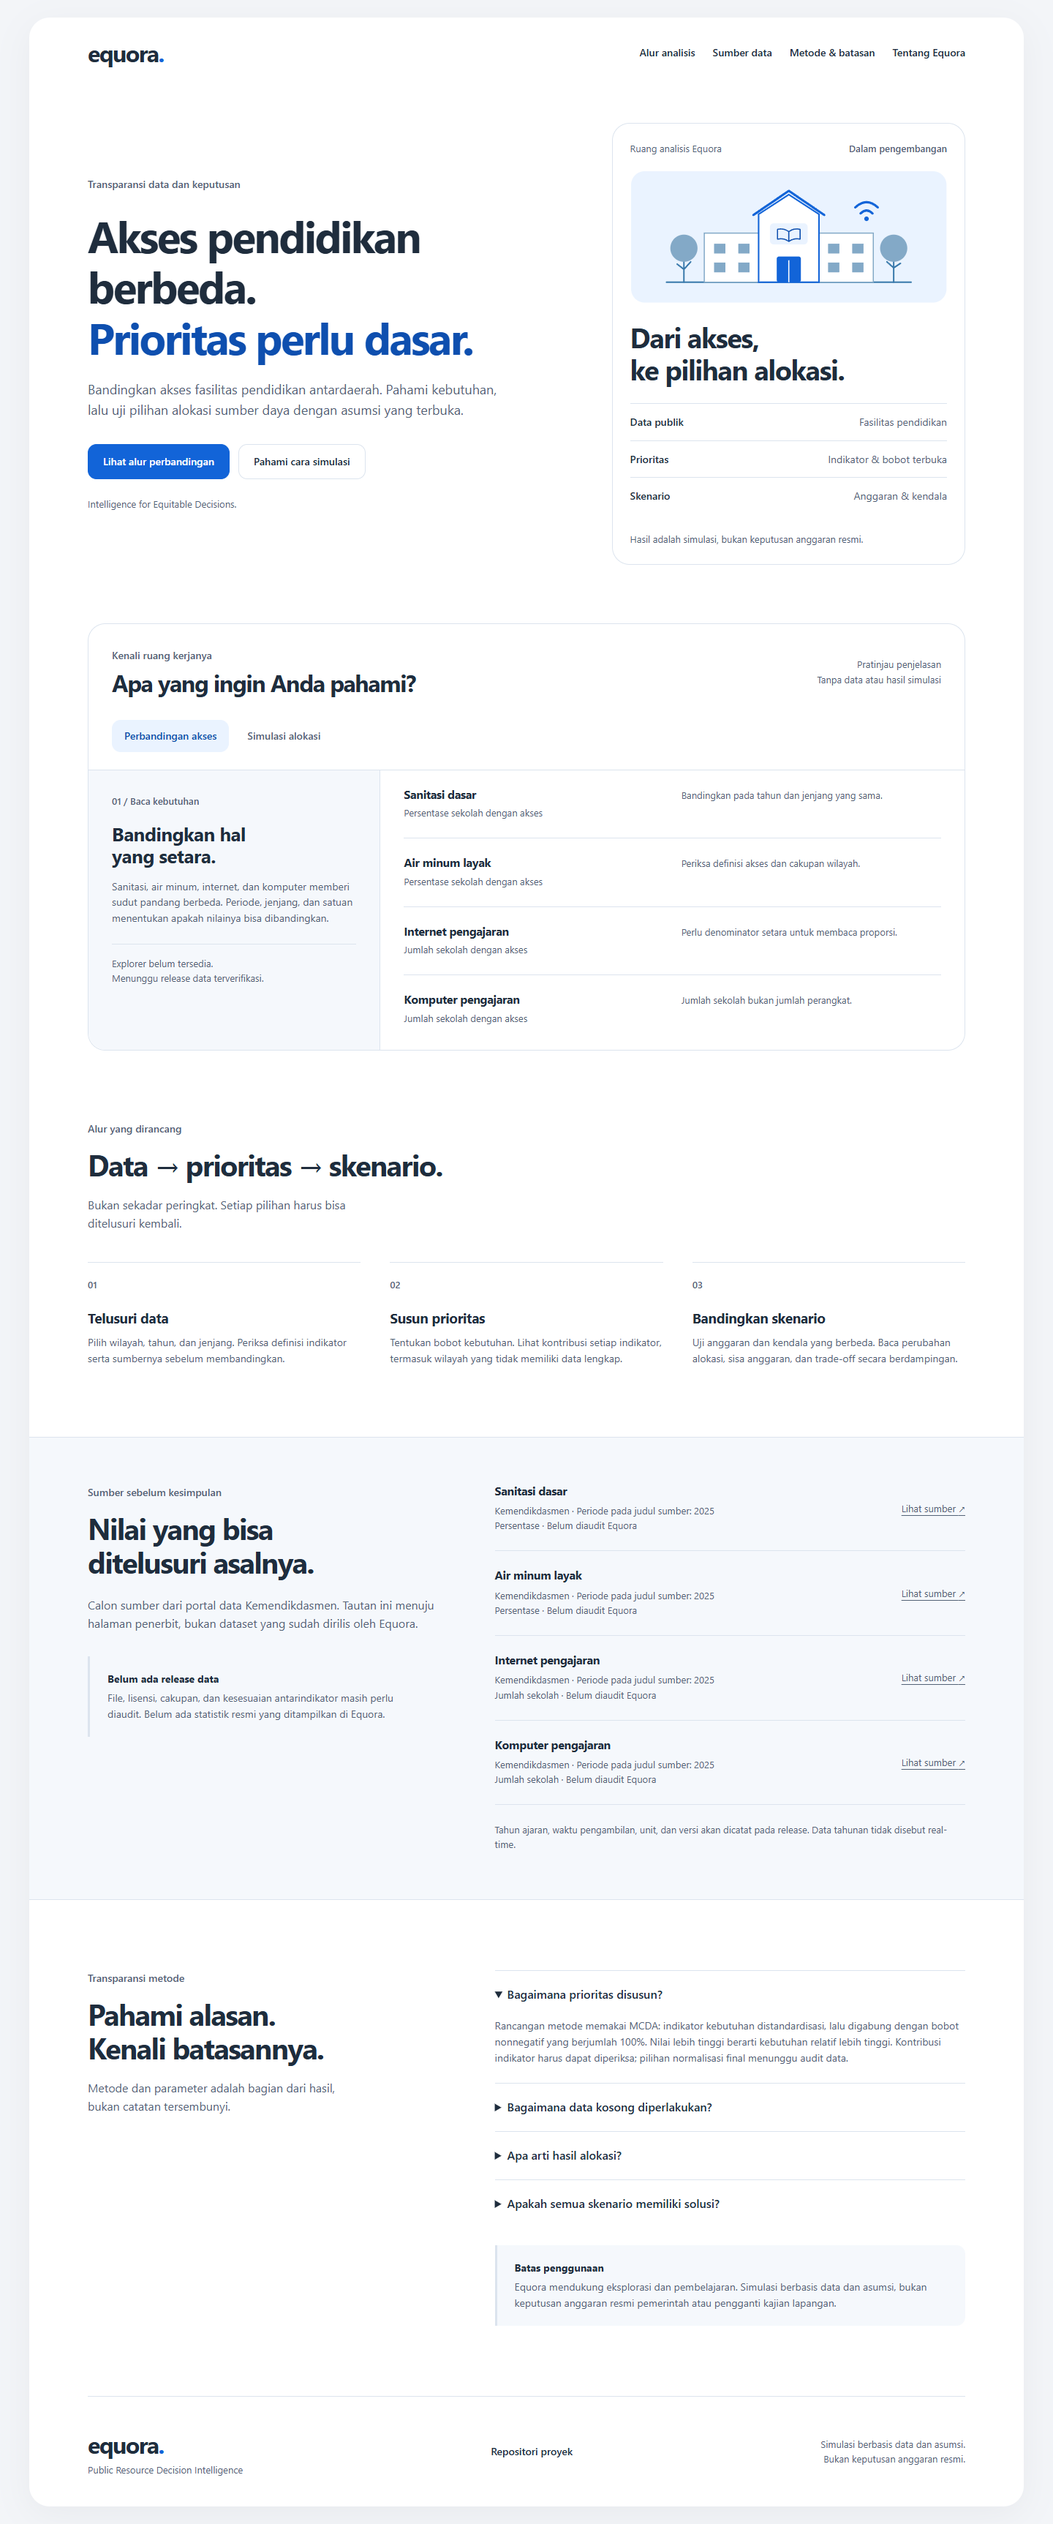
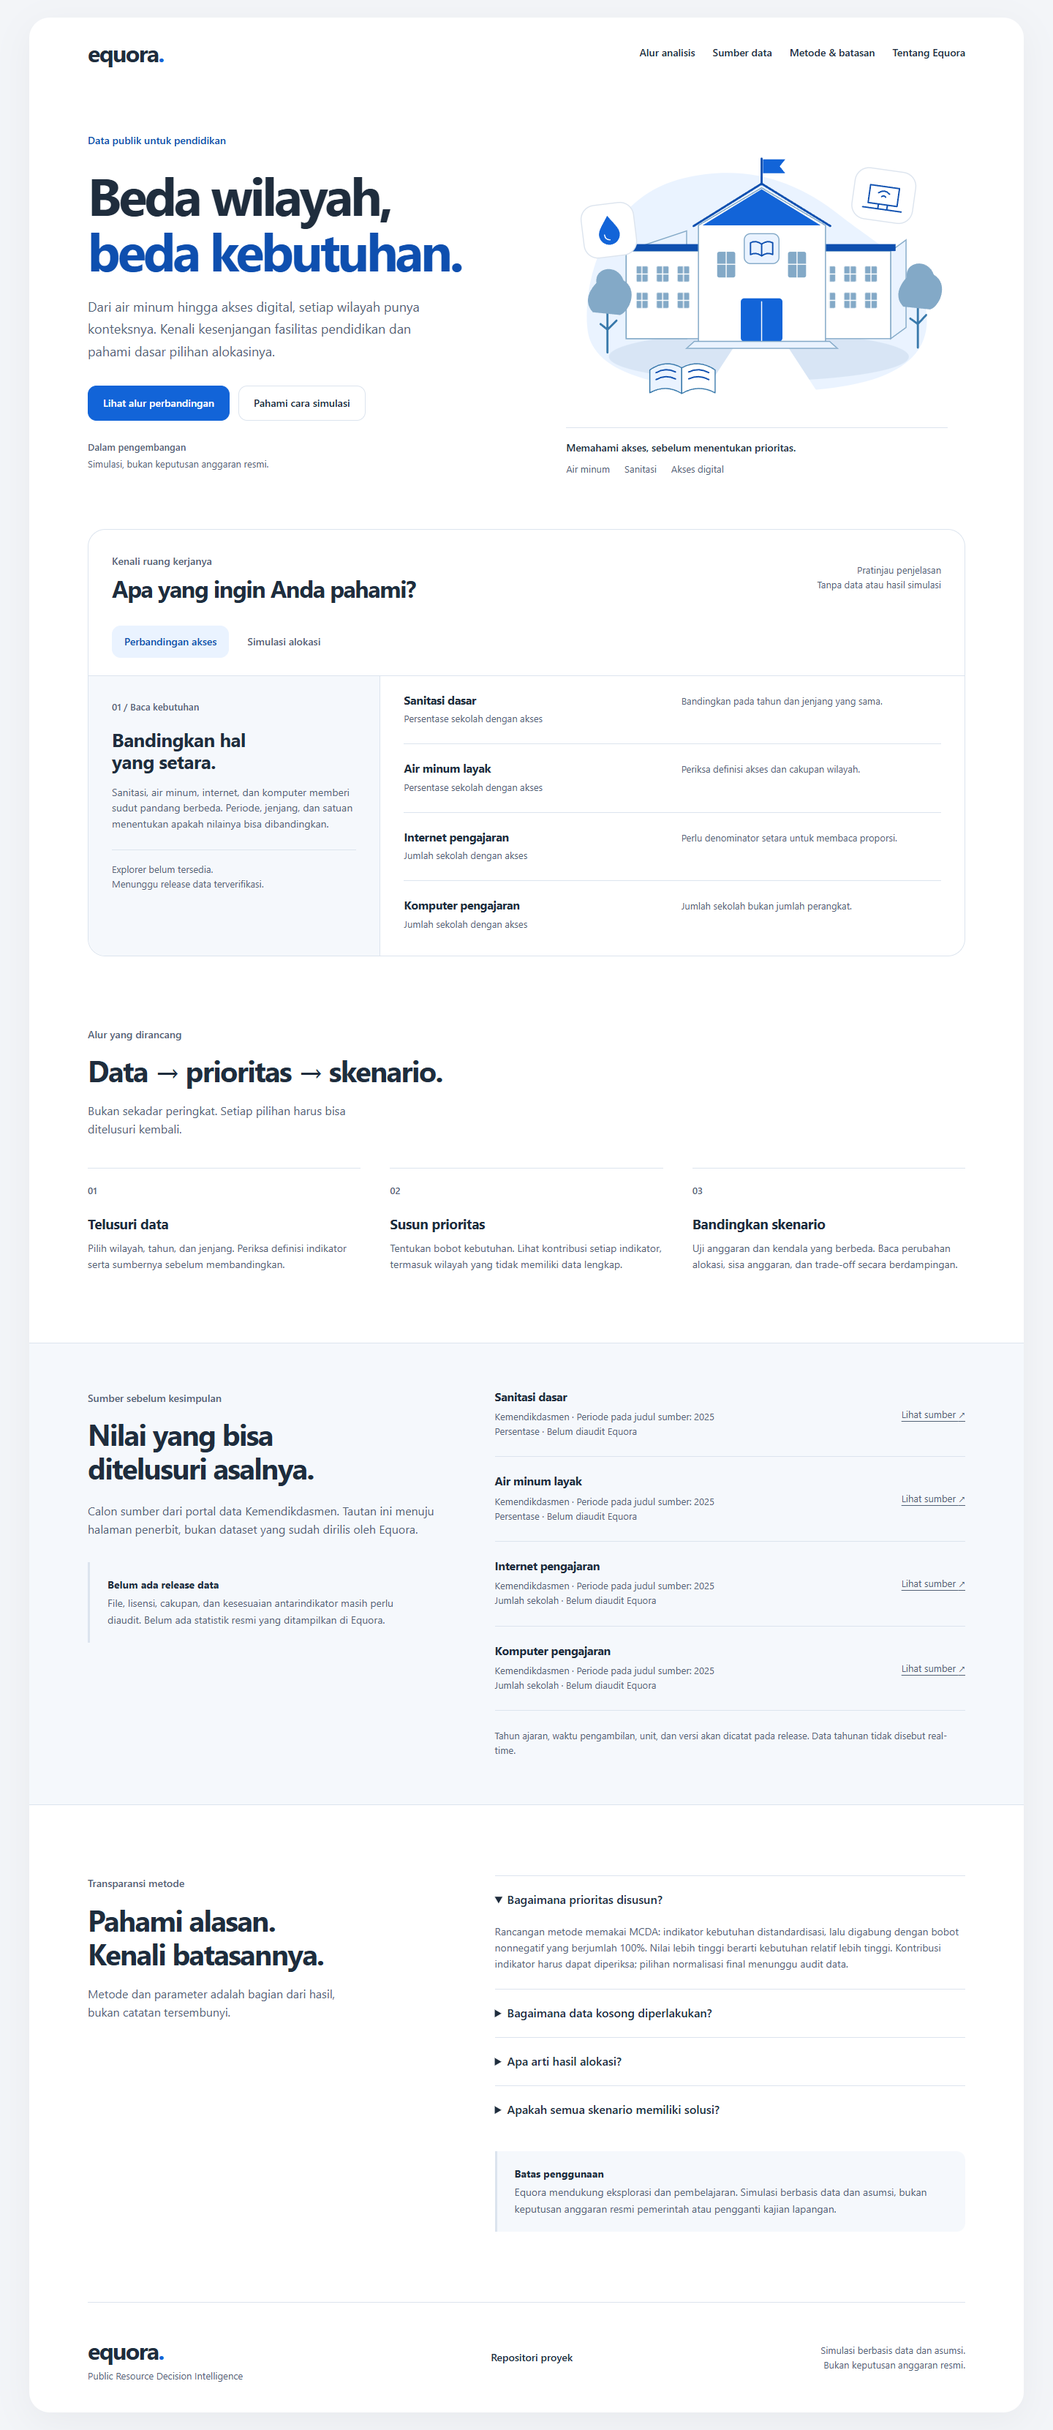
feat(web): strengthen education hero composition and illustration

diff --git a/frontend/src/lib/components/EducationScene.svelte b/frontend/src/lib/components/EducationScene.svelte
@@ -1,31 +1,65 @@
-<svg viewBox="0 0 420 176" role="img" aria-label="Ilustrasi sekolah sebagai konteks fasilitas pendidikan">
-  <rect x="1" y="1" width="418" height="174" rx="18" class="backdrop" />
-  <path d="M48 148H372" class="ground" />
-  <path d="M98 83H174V148H98zM246 83H322V148H246z" class="wing" />
-  <path d="M170 58L210 32L250 58V148H170z" class="school" />
-  <path d="M163 59L210 27L257 59" class="roof" />
-  <rect x="194" y="114" width="32" height="34" rx="3" class="door" />
-  <path d="M210 119V148" class="door-line" />
-  <path d="M111 97H126V110H111zM143 97H158V110H143zM262 97H277V110H262zM294 97H309V110H294zM111 122H126V135H111zM143 122H158V135H143zM262 122H277V135H262zM294 122H309V135H294z" class="windows" />
-  <rect x="185" y="70" width="50" height="28" rx="5" class="sign" />
-  <path d="M195 78Q203 76 210 81Q217 76 225 78V91Q217 89 210 94Q203 89 195 91zM210 81V94" class="book" />
-  <path d="M71 148V110M62 124L71 131L80 121M349 148V110M340 121L349 129L358 123" class="tree" />
-  <circle cx="71" cy="103" r="18" class="leaves" />
-  <circle cx="349" cy="103" r="18" class="leaves" />
-  <path d="M298 49Q313 35 328 49M305 57Q313 49 321 57" class="signal" />
-  <circle cx="313" cy="64" r="3" class="signal-dot" />
+<svg viewBox="0 0 600 430" role="img" aria-label="Ilustrasi lingkungan sekolah dengan fasilitas air dan akses digital, bukan data sekolah nyata">
+  <defs>
+    <pattern id="eq-school-windows" width="30" height="38" patternUnits="userSpaceOnUse">
+      <rect x="6" y="8" width="17" height="22" rx="2" class="window" />
+      <path d="M14.5 8V30M6 19H23" class="window-line" />
+    </pattern>
+  </defs>
+  <path d="M56 286C50 195 96 94 195 71C285 50 357 75 419 124C481 173 546 201 545 277C544 352 452 378 319 378C179 378 61 359 56 286Z" class="backdrop" />
+  <ellipse cx="303" cy="328" rx="216" ry="35" class="lawn" />
+  <path d="M275 302L224 380H388L337 302Z" class="pathway" />
+  <path d="M112 176L199 147V302H112Z" class="wing-side" />
+  <path d="M112 176H218V302H112Z" class="wing" />
+  <path d="M389 176H493V302H389Z" class="wing" />
+  <path d="M493 176L515 160V286L493 302Z" class="wing-side" />
+  <path d="M105 176H220V166H105ZM388 166H500V176H388Z" class="ledge" />
+  <rect x="127" y="188" width="76" height="83" fill="url(#eq-school-windows)" />
+  <rect x="404" y="188" width="76" height="83" fill="url(#eq-school-windows)" />
+  <path d="M216 139L307 85L399 139V306H216Z" class="school" />
+  <path d="M209 140L307 79L406 140" class="roof-outline" />
+  <path d="M222 139L307 87L392 139Z" class="roof" />
+  <rect x="277" y="244" width="60" height="62" rx="5" class="door" />
+  <path d="M307 249V306" class="door-line" />
+  <path d="M210 306H405L416 316H199Z" class="steps" />
+  <rect x="243" y="177" width="26" height="37" rx="3" class="window" />
+  <rect x="345" y="177" width="26" height="37" rx="3" class="window" />
+  <path d="M256 177V214M243 195H269M358 177V214M345 195H371" class="window-line" />
+  <rect x="282" y="151" width="50" height="43" rx="9" class="book-sign" />
+  <path d="M291 164Q299 160 307 166Q315 160 323 164V181Q315 177 307 183Q299 177 291 181ZM307 166V183" class="book" />
+  <path d="M307 80V43" class="pole" />
+  <path d="M309 44H341L333 54L341 64H309Z" class="flag" />
+  <path d="M85 322V264M75 281L85 289L98 276M532 315V256M521 273L532 281L544 268" class="tree" />
+  <path d="M64 264C48 247 63 228 69 222C66 198 100 194 108 218C130 231 117 263 103 268Z" class="leaves" />
+  <path d="M511 256C495 239 510 220 516 214C513 190 547 186 555 210C577 223 564 255 550 260Z" class="leaves" />
+  <g transform="translate(49 108) rotate(-7 38 38)">
+    <rect width="76" height="76" rx="20" class="resource-card" />
+    <path d="M38 17C31 28 23 36 23 44A15 15 0 0 0 53 44C53 36 45 28 38 17Z" class="drop" />
+    <path d="M31 44Q31 51 38 52" class="drop-detail" />
+  </g>
+  <g transform="translate(439 59) rotate(8 43 37)">
+    <rect width="88" height="74" rx="20" class="resource-card" />
+    <path d="M23 40V24H65V50H23V40M16 57H72M38 50V57M51 50V57" class="computer" />
+    <path d="M36 34Q44 27 52 34M41 39Q44 36 47 39" class="signal" />
+  </g>
+  <path d="M146 347Q169 331 192 344L192 381Q169 367 146 380Z" class="open-book-left" />
+  <path d="M192 344Q216 331 240 347V380Q216 367 192 381Z" class="open-book-right" />
+  <path d="M155 351Q169 343 183 350M155 361Q169 353 183 360M202 350Q216 343 231 351M202 360Q216 353 231 361" class="book-lines" />
 </svg>
 
 <style>
   svg { display: block; width: 100%; height: auto; }
   .backdrop { fill: var(--eq-primary-tint); }
-  .ground, .tree { fill: none; stroke: var(--eq-chart-blue); stroke-width: 2; stroke-linecap: round; }
-  .wing { fill: var(--eq-surface); stroke: var(--eq-chart-blue-light); stroke-width: 1.5; }
-  .school { fill: var(--eq-surface); stroke: var(--eq-primary); stroke-width: 2; }
-  .roof, .signal { fill: none; stroke: var(--eq-primary); stroke-width: 3; stroke-linecap: round; stroke-linejoin: round; }
-  .door, .signal-dot { fill: var(--eq-primary); }
-  .door-line { stroke: var(--eq-surface); stroke-width: 1.5; }
-  .windows, .leaves { fill: var(--eq-chart-blue-light); }
-  .sign { fill: var(--eq-primary-tint); }
-  .book { fill: none; stroke: var(--eq-primary-hover); stroke-width: 1.5; stroke-linejoin: round; }
+  .lawn { fill: var(--eq-chart-blue-light); opacity: 0.18; }
+  .pathway, .wing, .school, .open-book-right { fill: var(--eq-surface); }
+  .wing, .school { stroke: var(--eq-chart-blue-light); stroke-width: 1.5; stroke-linejoin: round; }
+  .wing-side, .steps, .book-sign, .open-book-left { fill: var(--eq-primary-tint); stroke: var(--eq-chart-blue-light); stroke-width: 1.5; }
+  .roof, .door, .flag, .drop { fill: var(--eq-primary); }
+  .roof-outline, .pole { fill: none; stroke: var(--eq-primary-hover); stroke-width: 3; stroke-linecap: round; stroke-linejoin: round; }
+  .ledge { fill: var(--eq-primary-hover); }
+  .window, .leaves { fill: var(--eq-chart-blue-light); }
+  .window-line, .door-line, .drop-detail { fill: none; stroke: var(--eq-surface); stroke-width: 1.5; stroke-linecap: round; }
+  .tree { fill: none; stroke: var(--eq-chart-blue); stroke-width: 3; stroke-linecap: round; }
+  .resource-card { fill: var(--eq-surface); stroke: var(--eq-border); stroke-width: 1.5; }
+  .computer, .signal, .book, .book-lines { fill: none; stroke: var(--eq-primary-hover); stroke-width: 2; stroke-linecap: round; stroke-linejoin: round; }
+  .open-book-left, .open-book-right { stroke: var(--eq-chart-blue); stroke-width: 1.5; stroke-linejoin: round; }
 </style>

diff --git a/frontend/src/routes/+page.svelte b/frontend/src/routes/+page.svelte
@@ -31,26 +31,19 @@
 ]}>
   <section class="eq-container hero" aria-labelledby="hero-title">
     <div class="hero-copy">
-      <p class="eq-kicker">Transparansi data dan keputusan</p>
-      <h1 id="hero-title">Akses pendidikan berbeda.<br /><span>Prioritas perlu dasar.</span></h1>
-      <p class="intro">Bandingkan akses fasilitas pendidikan antardaerah. Pahami kebutuhan, lalu uji pilihan alokasi sumber daya dengan asumsi yang terbuka.</p>
+      <p class="eq-kicker">Data publik untuk pendidikan</p>
+      <h1 id="hero-title">Beda wilayah,<br /><span>beda kebutuhan.</span></h1>
+      <p class="intro">Dari air minum hingga akses digital, setiap wilayah punya konteksnya. Kenali kesenjangan fasilitas pendidikan dan pahami dasar pilihan alokasinya.</p>
       <div class="actions">
         <a class="eq-button eq-button-primary" href="#pratinjau">Lihat alur perbandingan</a>
         <a class="eq-button" href="#metode">Pahami cara simulasi</a>
       </div>
-      <p class="hero-note">Intelligence for Equitable Decisions.</p>
+      <p class="hero-note"><span class="development-label">Dalam pengembangan</span><br />Simulasi, bukan keputusan anggaran resmi.</p>
     </div>
-    <aside class="analysis-note" aria-labelledby="analysis-title">
-      <div class="note-header"><span>Ruang analisis Equora</span><span class="status">Dalam pengembangan</span></div>
+    <figure class="education-visual">
       <div class="education-scene"><EducationScene /></div>
-      <h2 id="analysis-title">Dari akses,<br />ke pilihan alokasi.</h2>
-      <dl>
-        <div><dt>Data publik</dt><dd>Fasilitas pendidikan</dd></div>
-        <div><dt>Prioritas</dt><dd>Indikator & bobot terbuka</dd></div>
-        <div><dt>Skenario</dt><dd>Anggaran & kendala</dd></div>
-      </dl>
-      <p>Hasil adalah simulasi, bukan keputusan anggaran resmi.</p>
-    </aside>
+      <figcaption><p>Memahami akses, sebelum menentukan prioritas.</p><div class="facility-topics"><span>Air minum</span><span>Sanitasi</span><span>Akses digital</span></div></figcaption>
+    </figure>
   </section>
 
   <section id="pratinjau" class="eq-container preview" aria-labelledby="preview-title">
@@ -133,22 +126,22 @@
 </PublicShell>
 
 <style>
-  .hero { display: grid; grid-template-columns: 1.35fr 1fr; align-items: center; gap: 64px; padding-block: 48px 80px; }
-  .hero-copy > .eq-kicker { margin-bottom: 24px; }
+  .hero { display: grid; grid-template-columns: 1.05fr 1fr; align-items: center; gap: 32px; padding-block: 56px 72px; }
+  .hero-copy > .eq-kicker { margin-bottom: 24px; color: var(--eq-primary-hover); }
+  h1 { font-size: clamp(2.6rem, 5vw, 4.5rem); line-height: 1.06; letter-spacing: -0.055em; }
   h1 span { color: var(--eq-primary-hover); }
-  .intro { max-width: 580px; margin-top: 24px; color: var(--eq-text-secondary); font-size: 18px; }
+  .intro { max-width: 500px; margin-top: 24px; color: var(--eq-text-secondary); font-size: 18px; line-height: 1.7; }
   .actions { display: flex; flex-wrap: wrap; gap: 12px; margin-top: 32px; }
-  .hero-note { margin-top: 24px; font-size: 13px; color: var(--eq-text-secondary); }
-  .analysis-note { border: 1px solid var(--eq-border); border-radius: var(--eq-radius-lg); padding: 24px; background: var(--eq-surface); }
-  .education-scene { margin-top: 20px; }
-  .note-header { display: flex; flex-wrap: wrap; justify-content: space-between; gap: 8px; font-size: 13px; color: var(--eq-text-secondary); }
-  .status { font-weight: 600; }
-  .analysis-note h2 { margin-block: 24px; font-size: clamp(1.8rem, 2.8vw, 2.4rem); }
+  .hero-note { margin-top: 24px; font-size: 13px; line-height: 1.8; color: var(--eq-text-secondary); }
+  .development-label { font-weight: 600; }
+  .education-visual { min-width: 0; margin: 0; }
+  .education-scene { width: 100%; }
+  figcaption { margin: 0 24px; padding-top: 16px; border-top: 1px solid var(--eq-border); }
+  figcaption > p { font-size: 14px; font-weight: 600; color: var(--eq-text); }
+  .facility-topics { display: flex; flex-wrap: wrap; gap: 8px 20px; margin-top: 8px; font-size: 13px; color: var(--eq-text-secondary); }
   dl { margin: 0; }
-  .analysis-note dl div { display: flex; justify-content: space-between; gap: 16px; padding-block: 14px; border-top: 1px solid var(--eq-border); font-size: 14px; }
   dt { font-weight: 600; }
   dd { margin: 0; color: var(--eq-text-secondary); }
-  .analysis-note > p { margin-top: 24px; font-size: 13px; color: var(--eq-text-secondary); }
   .preview { border: 1px solid var(--eq-border); border-radius: var(--eq-radius-lg); background: var(--eq-surface-elevated); }
   .preview-header { padding: 32px; display: flex; align-items: center; justify-content: space-between; gap: 24px; }
   .preview-header h2 { margin-top: 8px; font-size: clamp(1.5rem, 2.5vw, 2rem); }
@@ -200,8 +193,7 @@
   .method-details :global(aside) { margin-top: 24px; }
   @media (max-width: 1023px) {
     .hero { gap: 32px; padding-block: 40px 64px; }
-    .analysis-note { padding: 24px; }
-    .analysis-note dl div { flex-direction: column; gap: 4px; }
+    .hero .intro { font-size: 16px; }
     .sources-layout, .method { gap: 40px; }
     .preview-body { grid-template-columns: 1fr 1.4fr; }
     .facility-row { grid-template-columns: 1fr; gap: 8px; }
@@ -210,8 +202,8 @@
   @media (max-width: 767px) {
     .hero { grid-template-columns: 1fr; gap: 32px; padding-top: 24px; }
     h1 { max-width: 620px; }
-    .analysis-note h2 { margin-block: 24px; }
-    .analysis-note dl div { flex-direction: row; }
+    .education-visual { width: min(100%, 520px); justify-self: center; }
+    figcaption { margin-inline: 16px; }
     .preview-header { align-items: flex-start; flex-direction: column; gap: 12px; padding: 24px; }
     .preview-caption { text-align: left; }
     .preview-caption br { display: none; }
@@ -230,7 +222,6 @@
   }
   @media (max-width: 479px) {
     .actions { flex-direction: column; align-items: stretch; }
-    .analysis-note dl div { flex-direction: column; }
     .view-switch { flex-direction: column; align-items: stretch; }
     .facility-row { grid-template-columns: 1fr; gap: 8px; }
     .source-row { align-items: flex-start; flex-direction: column; gap: 8px; }

diff --git a/frontend/tests/foundation.spec.ts b/frontend/tests/foundation.spec.ts
@@ -4,7 +4,7 @@ test('built frontend serves landing HTML and a separate health route', async ({ 
   const root = await request.get('/');
   expect(root.ok()).toBeTruthy();
   expect(root.headers()['content-type']).toContain('text/html');
-  expect(await root.text()).toContain('Akses pendidikan berbeda.');
+  expect(await root.text()).toContain('Beda wilayah,');
   const health = await request.get('/health');
   expect(health.ok()).toBeTruthy();
   expect(await health.json()).toEqual({ status: 'ok' });

diff --git a/docs/DESIGN_Equora.md b/docs/DESIGN_Equora.md
@@ -157,11 +157,14 @@ Navigation item terdiri dari ikon, label, active background putih/hampir putih d
 **Tujuan:** dalam 10 detik menjelaskan *data → prioritas → skenario* dan mengarahkan pengunjung ke pengalaman nyata.
 
 ```text
-[logo]       Jelajahi Data   Studio Skenario   Metodologi    [Mulai eksplorasi]
+[logo]       Alur analisis   Sumber data   Metode & batasan   Tentang Equora
 
-[Eyebrow: Transparansi data dan keputusan]
-[Pahlawan: Dari data publik menuju keputusan yang lebih terukur.]
-[Deskripsi 2 baris, caveat simulator] [Jelajahi data] [Bangun skenario]
+[Eyebrow: Data publik untuk pendidikan]
+[Hero: Beda wilayah, beda kebutuhan.]
+[Deskripsi: air minum, fasilitas digital dan konteks kebutuhan wilayah]
+[Lihat alur perbandingan] [Pahami cara simulasi]
+[Status pengembangan + caveat simulator]
+[Ilustrasi lingkungan sekolah yang dominan; caption air minum / sanitasi / akses digital]
 
 [Product preview: contoh explorer, grafik, scenario output yang bisa diklik]
 [3 langkah: Telusuri data > Susun prioritas > Bandingkan skenario]
@@ -172,6 +175,8 @@ Navigation item terdiri dari ikon, label, active background putih/hampir putih d
 ```
 
 **Interactions:** CTA navigate; product preview no fake live metrics; no misleading logos/testimonials. Hero motion optional and respects `prefers-reduced-motion`.
+
+**Hero publik saat ini:** komposisi teks dan ilustrasi terbuka, bukan kartu status berisi daftar metadata. Headline dua baris menonjolkan kebutuhan antardaerah, dengan ilustrasi kampus/sekolah SVG di sebelahnya. Buku, air dan perangkat digital hanya memberi konteks fasilitas, bukan bukti data sekolah nyata. Metadata dan rincian alur tetap di section berikutnya. Pada mobile ilustrasi ditumpuk setelah teks/tindakan, tanpa label kecil tertanam di SVG. CTA menuju anchor penjelasan yang tersedia sampai explorer/studio siap; jangan membuat link aktif ke route yang belum ada.
 
 ### 6.2 `/explore` — Regional Equity Explorer (P0)
 Header: title, source snapshot/year, selected education level. Toolbar: pilih indikator, wilayah, tahun, jenjang, urutkan. Body desktop: peta *jika coverage geometri valid* or ranked bar chart, companion metrics cards, detail table. On mobile: chart then searchable table; no sideways forced scrolling. Click a region => details. Every indicator has `Lihat sumber`, unit, year, and warnings.

diff --git a/docs/landing-validation.md b/docs/landing-validation.md
@@ -8,6 +8,10 @@ Pembaruan: 20 Oktober 2026. Baseline: [DESIGN v1.2 Clean Education Blue](DESIGN_
 
 Tema memakai panel putih, canvas sangat muda, biru utama, serta satu bingkai workspace dengan bayangan tipis di desktop dan layout penuh di mobile. Ilustrasi sekolah SVG lokal memperjelas konteks pendidikan; bukan sekolah nyata atau data indikator. Warna ilustrasi mengikuti token UI. Tidak ada maskot atau aset finansial/avatar dari referensi.
 
+Penyempurnaan hero pada `feat/landing-hero`: headline **Beda wilayah, beda kebutuhan.**, komposisi teks/ilustrasi sekolah yang terbuka, detail buku/air/perangkat, serta caption fasilitas HTML. Kartu status/daftar metadata di sisi kanan dihapus. Status pengembangan dan batas simulasi tetap terlihat di dekat CTA. Palet v1.2 dan perilaku interaksi tetap sama.
+
+Hero terbaru telah diperiksa melalui build/type-check, 2 unit tests dan 6 Playwright tests yang lulus pada lima viewport. Detail tampilan tersedia di [hero desktop](evidence/landing/hero-desktop.png) dan [hero mobile](evidence/landing/hero-mobile.png); keduanya ditinjau secara visual. Gate Hard/Purpose/Liveliness/Craftsmanship tetap PASS: tidak ada metrik rekaan, caption tetap HTML terbaca, dan ilustrasi noninteraktif tidak menyamarkan tombol.
+
 CTA menuju anchor penjelasan yang tersedia. Tombol perbandingan/simulasi mengganti penjelasan, bukan menjalankan solver. Explorer/studio, release data, dan metode final ditandai belum tersedia. Tidak ada angka indikator, hasil optimasi, peta, testimoni atau dampak rekaan. Empat URL sumber mengacu pada calon sumber di BRD; halaman penerbit berhasil dibuka saat verifikasi, tetapi audit file/lisensi terpisah.
 
 ## Pemeriksaan aktual

diff --git a/docs/ui-foundation.md b/docs/ui-foundation.md
@@ -13,6 +13,8 @@ ENERGY 2 / RHYTHM 2 / MOTION 1. Identitas Clean Education Blue: canvas abu-abu s
 - `AvailabilityNotice.svelte`: judul dan snippet isi untuk status ketersediaan. Tidak memakai live region untuk informasi statis.
 - `EducationScene.svelte`: ilustrasi sekolah lokal dengan nama aksesibel. Warna memakai token UI; tidak memuat angka, aset eksternal, atau hasil analisis.
 
+Hero memakai headline dua baris dan ilustrasi lingkungan sekolah yang terbuka, menggantikan kartu metadata di sisi kanan. Buku/air/perangkat memperjelas konteks fasilitas; caption HTML tetap terbaca pada mobile dan status pengembangan berada di dekat CTA. Alur dan metadata rinci tetap berada di bawah hero agar pengantar lebih mudah dipahami.
+
 Shell dipasang oleh halaman publik yang membutuhkannya. Endpoint `/health` dan `/api/health` tetap terpisah dari UI. Tidak ada sidebar dashboard atau navigasi admin sebelum route serta kontrol aksesnya tersedia.
 
 ## Pemisahan pekerjaan
